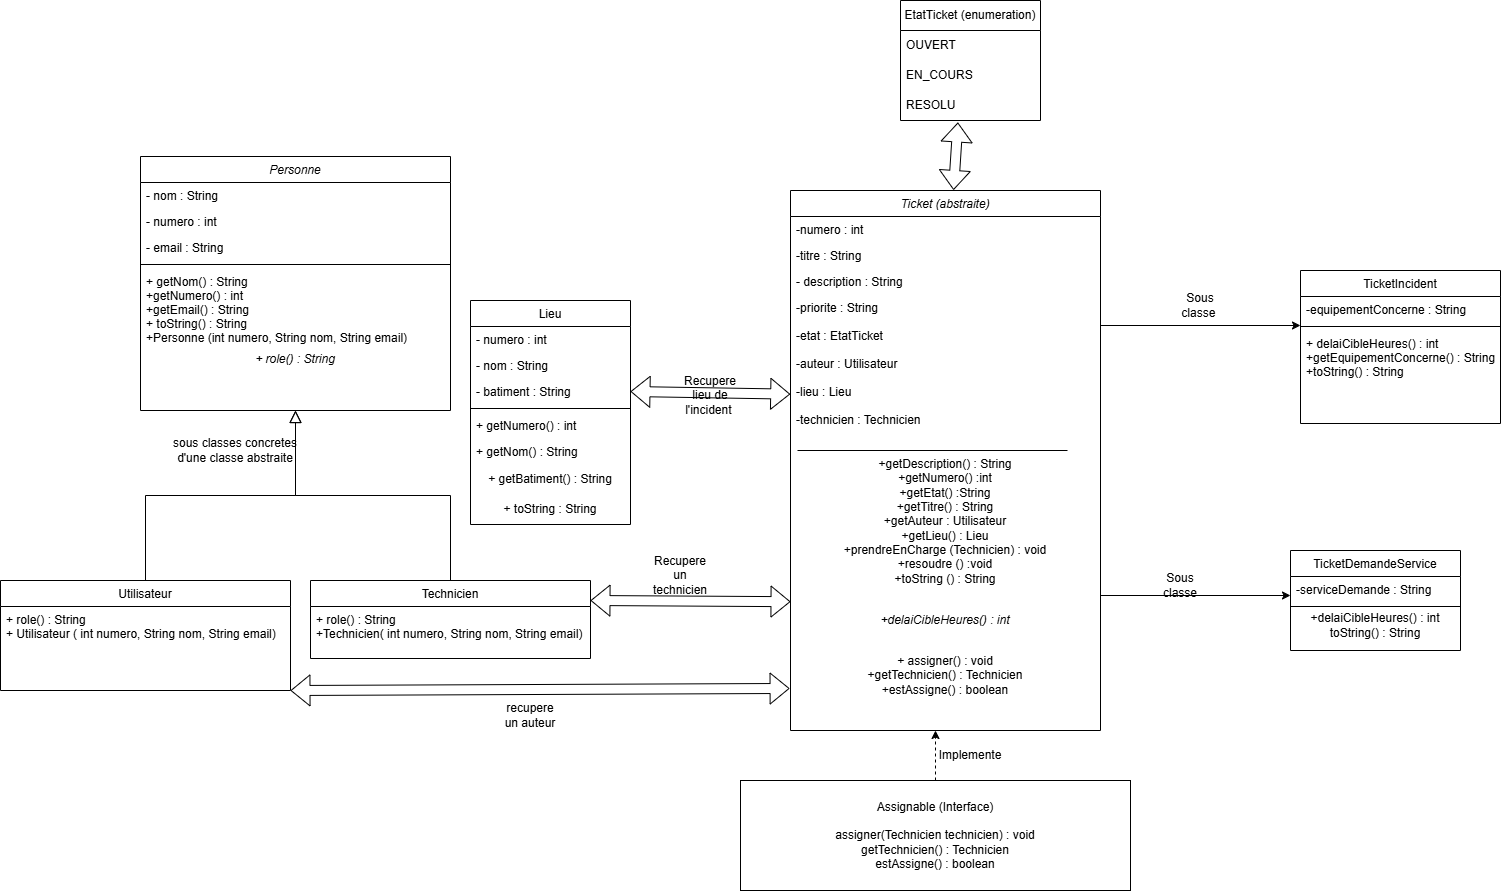
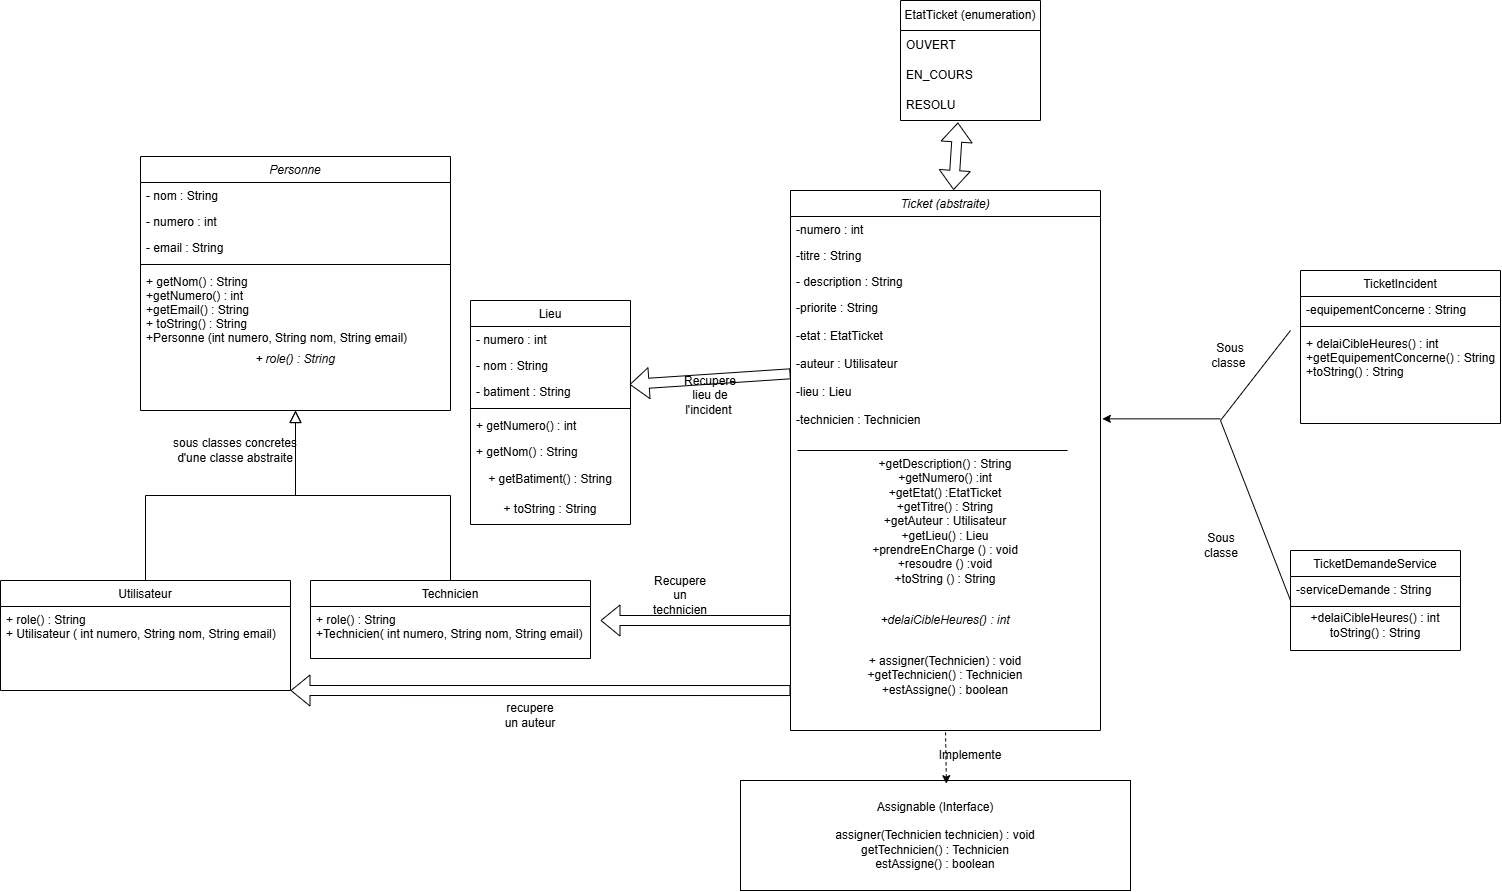
Merge remote-tracking branch 'origin/main'

diff --git a/src/Main.java b/src/Main.java
@@ -67,6 +67,7 @@ public class Main {
         // Refus 2 : prendreEnCharge() sur un ticket déjà résolu
         
         System.out.println("=== c2. Refus : Prise en charge sur un ticket déjà résolu ===");
+
         try {
             ticketSidibe.prendreEnCharge();
         } catch (Exception e) {
@@ -107,7 +108,7 @@ public class Main {
         // cas 5 (limite) : prise en charge sans technicien
 
 
-        System.out.println("c 5 : prise en charge refusee sans technicien assigne ===");
+        System.out.println("==c 5 : prise en charge refusee sans technicien assigne ===");
         Ticket ticketSansTechnicien = new TicketIncident(103, "Imprimante bloquee",
                 "L'imprimante affiche une erreur papier", "BASSE",
                 sidibe, salleB65, "Imprimante salle B6.5");
